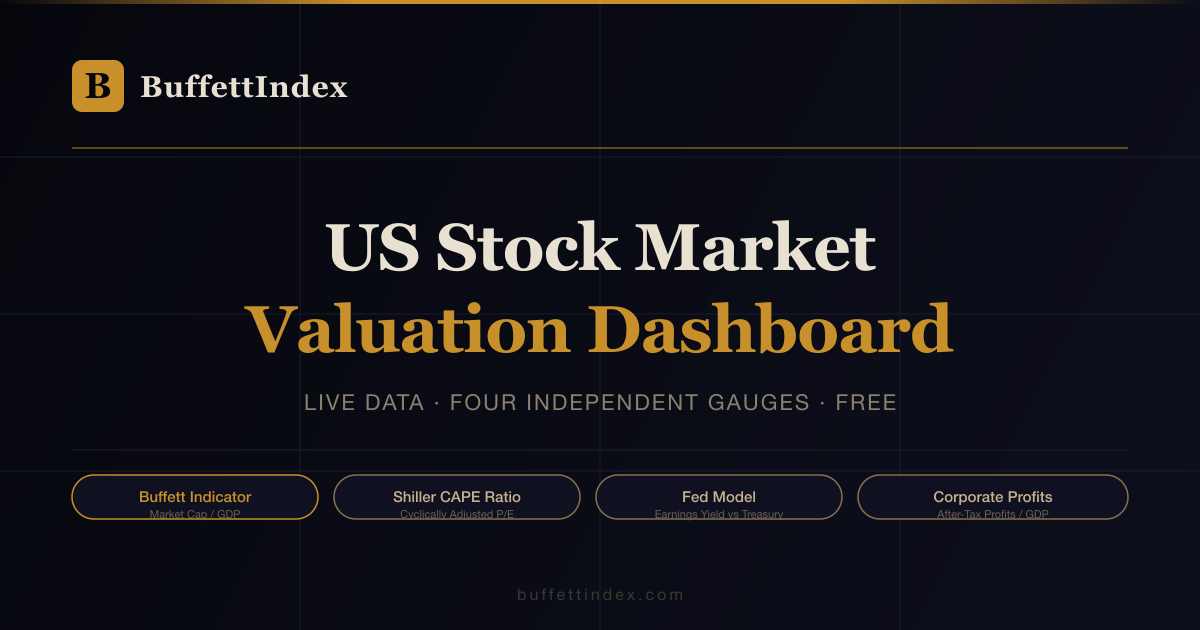
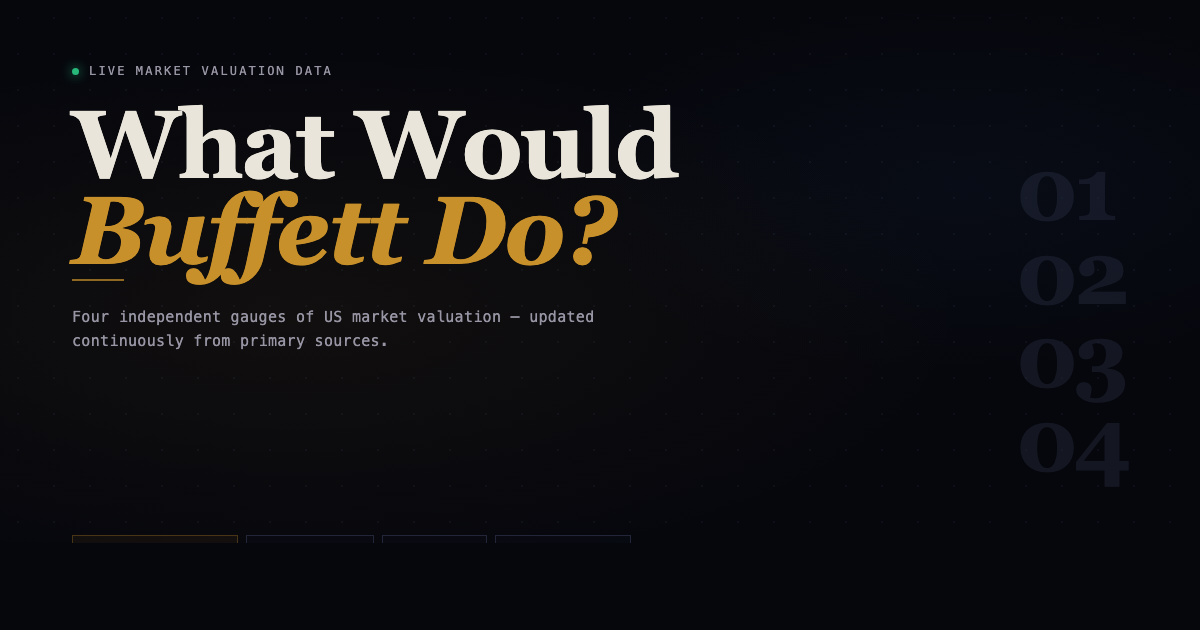
Update OG image and rebrand meta tags to Buffett Indicators
- Regenerate OG image with new "What Would Buffett Do?" heading
- Update og:site_name, og:title, twitter:title to Buffett Indicators
- Update image alt text across OG and Twitter meta tags

diff --git a/og-image.html b/og-image.html
@@ -1,0 +1,194 @@
+<!DOCTYPE html>
+<html>
+<head>
+<meta charset="UTF-8">
+<style>
+  @import url('https://fonts.googleapis.com/css2?family=Cormorant+Garamond:ital,wght@0,600;1,600&family=JetBrains+Mono:wght@400;500&display=swap');
+
+  * { margin: 0; padding: 0; box-sizing: border-box; }
+
+  body {
+    width: 1200px;
+    height: 630px;
+    background: #06070D;
+    overflow: hidden;
+    position: relative;
+  }
+
+  /* Dot grid texture */
+  body::before {
+    content: '';
+    position: absolute;
+    inset: 0;
+    background-image: radial-gradient(circle, #1E2030 1px, transparent 1px);
+    background-size: 36px 36px;
+    opacity: 0.35;
+  }
+
+  /* Subtle gradient wash */
+  body::after {
+    content: '';
+    position: absolute;
+    inset: 0;
+    background: radial-gradient(ellipse 80% 60% at 25% 50%, rgba(200, 144, 42, 0.06) 0%, transparent 70%),
+                radial-gradient(ellipse 60% 50% at 80% 30%, rgba(65, 146, 242, 0.04) 0%, transparent 60%);
+  }
+
+  .container {
+    position: relative;
+    z-index: 1;
+    width: 100%;
+    height: 100%;
+    padding: 64px 72px;
+    display: flex;
+    flex-direction: column;
+    justify-content: space-between;
+  }
+
+  .top {
+    display: flex;
+    flex-direction: column;
+    gap: 24px;
+  }
+
+  .eyebrow {
+    display: flex;
+    align-items: center;
+    gap: 10px;
+    font-family: 'JetBrains Mono', monospace;
+    font-size: 12px;
+    letter-spacing: 0.18em;
+    text-transform: uppercase;
+    color: #9895A4;
+  }
+
+  .dot {
+    width: 7px;
+    height: 7px;
+    border-radius: 50%;
+    background: #27B87A;
+    box-shadow: 0 0 12px #27B87A;
+  }
+
+  h1 {
+    font-family: 'Cormorant Garamond', Georgia, serif;
+    font-size: 96px;
+    font-weight: 600;
+    line-height: 0.9;
+    letter-spacing: -0.02em;
+    color: #EAE5DA;
+  }
+
+  h1 em {
+    font-style: italic;
+    color: #C8902A;
+  }
+
+  .rule {
+    width: 52px;
+    height: 2px;
+    background: #C8902A;
+    opacity: 0.7;
+    margin-top: 4px;
+  }
+
+  .subtitle {
+    font-family: 'JetBrains Mono', monospace;
+    font-size: 15px;
+    color: #9895A4;
+    letter-spacing: 0.02em;
+    line-height: 1.6;
+    max-width: 600px;
+  }
+
+  .bottom {
+    display: flex;
+    justify-content: space-between;
+    align-items: flex-end;
+  }
+
+  .indicators {
+    display: flex;
+    gap: 8px;
+  }
+
+  .indicator-pill {
+    font-family: 'JetBrains Mono', monospace;
+    font-size: 11px;
+    letter-spacing: 0.08em;
+    color: #6A6878;
+    padding: 8px 18px;
+    border: 1px solid #222638;
+    background: rgba(10, 12, 20, 0.7);
+  }
+
+  .indicator-pill.active {
+    color: #C8902A;
+    border-color: rgba(200, 144, 42, 0.3);
+    background: rgba(200, 144, 42, 0.06);
+  }
+
+  .domain {
+    font-family: 'JetBrains Mono', monospace;
+    font-size: 13px;
+    letter-spacing: 0.06em;
+    color: #6A6878;
+  }
+
+  /* Decorative section numbers */
+  .ghost-numbers {
+    position: absolute;
+    right: 72px;
+    top: 50%;
+    transform: translateY(-50%);
+    display: flex;
+    flex-direction: column;
+    gap: 0;
+    z-index: 0;
+  }
+
+  .ghost-num {
+    font-family: 'Cormorant Garamond', Georgia, serif;
+    font-size: 88px;
+    font-weight: 600;
+    line-height: 0.95;
+    color: #222638;
+    letter-spacing: -0.04em;
+    user-select: none;
+    opacity: 0.5;
+  }
+</style>
+</head>
+<body>
+  <div class="ghost-numbers">
+    <span class="ghost-num">01</span>
+    <span class="ghost-num">02</span>
+    <span class="ghost-num">03</span>
+    <span class="ghost-num">04</span>
+  </div>
+
+  <div class="container">
+    <div class="top">
+      <div class="eyebrow">
+        <span class="dot"></span>
+        Live Market Valuation Data
+      </div>
+      <div>
+        <h1>What Would<br><em>Buffett Do?</em></h1>
+        <div class="rule"></div>
+      </div>
+      <p class="subtitle">Four independent gauges of US market valuation — updated continuously from primary sources.</p>
+    </div>
+
+    <div class="bottom">
+      <div class="indicators">
+        <span class="indicator-pill active">Buffett Indicator</span>
+        <span class="indicator-pill">Shiller CAPE</span>
+        <span class="indicator-pill">Fed Model</span>
+        <span class="indicator-pill">Corp. Profits</span>
+      </div>
+      <span class="domain">buffettindicators.com</span>
+    </div>
+  </div>
+</body>
+</html>

diff --git a/index.html b/index.html
@@ -14,22 +14,22 @@
 
   <!-- ── Open Graph ───────────────────────────────────────────────────────── -->
   <meta property="og:type" content="website">
-  <meta property="og:site_name" content="BuffettIndex">
-  <meta property="og:title" content="BuffettIndex — US Stock Market Valuation Dashboard">
+  <meta property="og:site_name" content="Buffett Indicators">
+  <meta property="og:title" content="Buffett Indicators — US Stock Market Valuation Dashboard">
   <meta property="og:description" content="Four independent gauges of US market valuation — Buffett Indicator, Shiller CAPE, Fed Model, and Corporate Profits/GDP — updated live from primary sources. Free and no login required.">
   <meta property="og:url" content="https://buffettindicators.com/">
   <meta property="og:image" content="https://buffettindicators.com/og-image.png">
   <meta property="og:image:width" content="1200">
   <meta property="og:image:height" content="630">
-  <meta property="og:image:alt" content="BuffettIndex dashboard showing four US stock market valuation gauges: Buffett Indicator, Shiller CAPE, Fed Model, and Corporate Profits/GDP">
+  <meta property="og:image:alt" content="Buffett Indicators dashboard showing four US stock market valuation gauges: Buffett Indicator, Shiller CAPE, Fed Model, and Corporate Profits/GDP">
   <meta property="og:locale" content="en_US">
 
   <!-- ── Twitter Card ─────────────────────────────────────────────────────── -->
   <meta name="twitter:card" content="summary_large_image">
-  <meta name="twitter:title" content="BuffettIndex — US Stock Market Valuation Dashboard">
+  <meta name="twitter:title" content="Buffett Indicators — US Stock Market Valuation Dashboard">
   <meta name="twitter:description" content="Four independent gauges of US market valuation — Buffett Indicator, Shiller CAPE, Fed Model, and Corporate Profits/GDP — updated live from primary sources.">
   <meta name="twitter:image" content="https://buffettindicators.com/og-image.png">
-  <meta name="twitter:image:alt" content="BuffettIndex dashboard showing four US stock market valuation gauges">
+  <meta name="twitter:image:alt" content="Buffett Indicators dashboard showing four US stock market valuation gauges">
 
   <!-- ── Structured Data (JSON-LD) ────────────────────────────────────────── -->
   <script type="application/ld+json">
